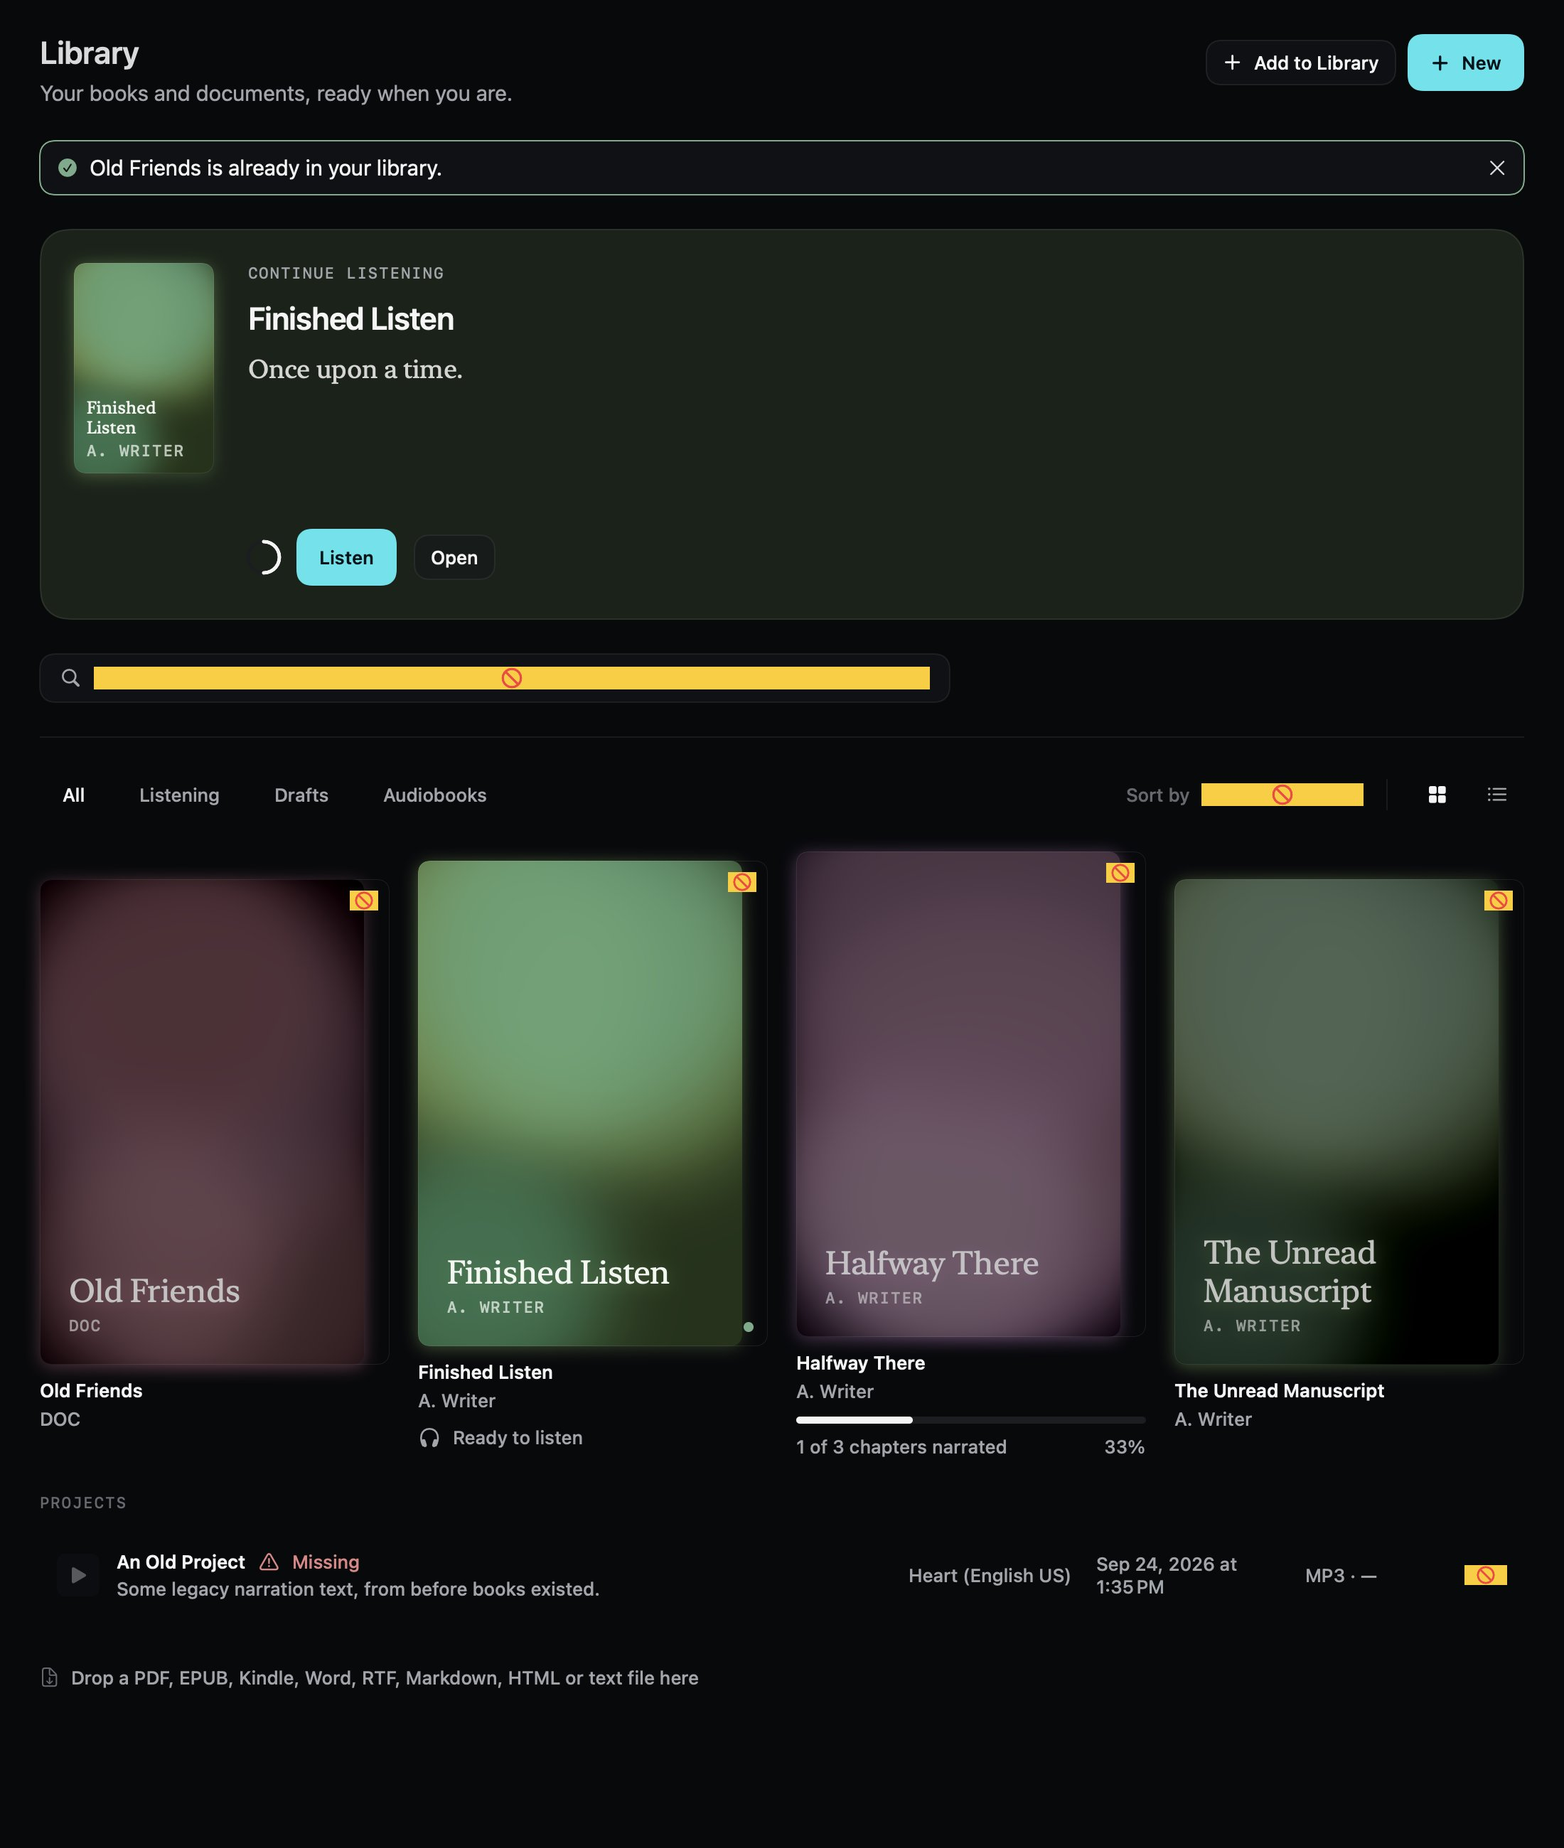
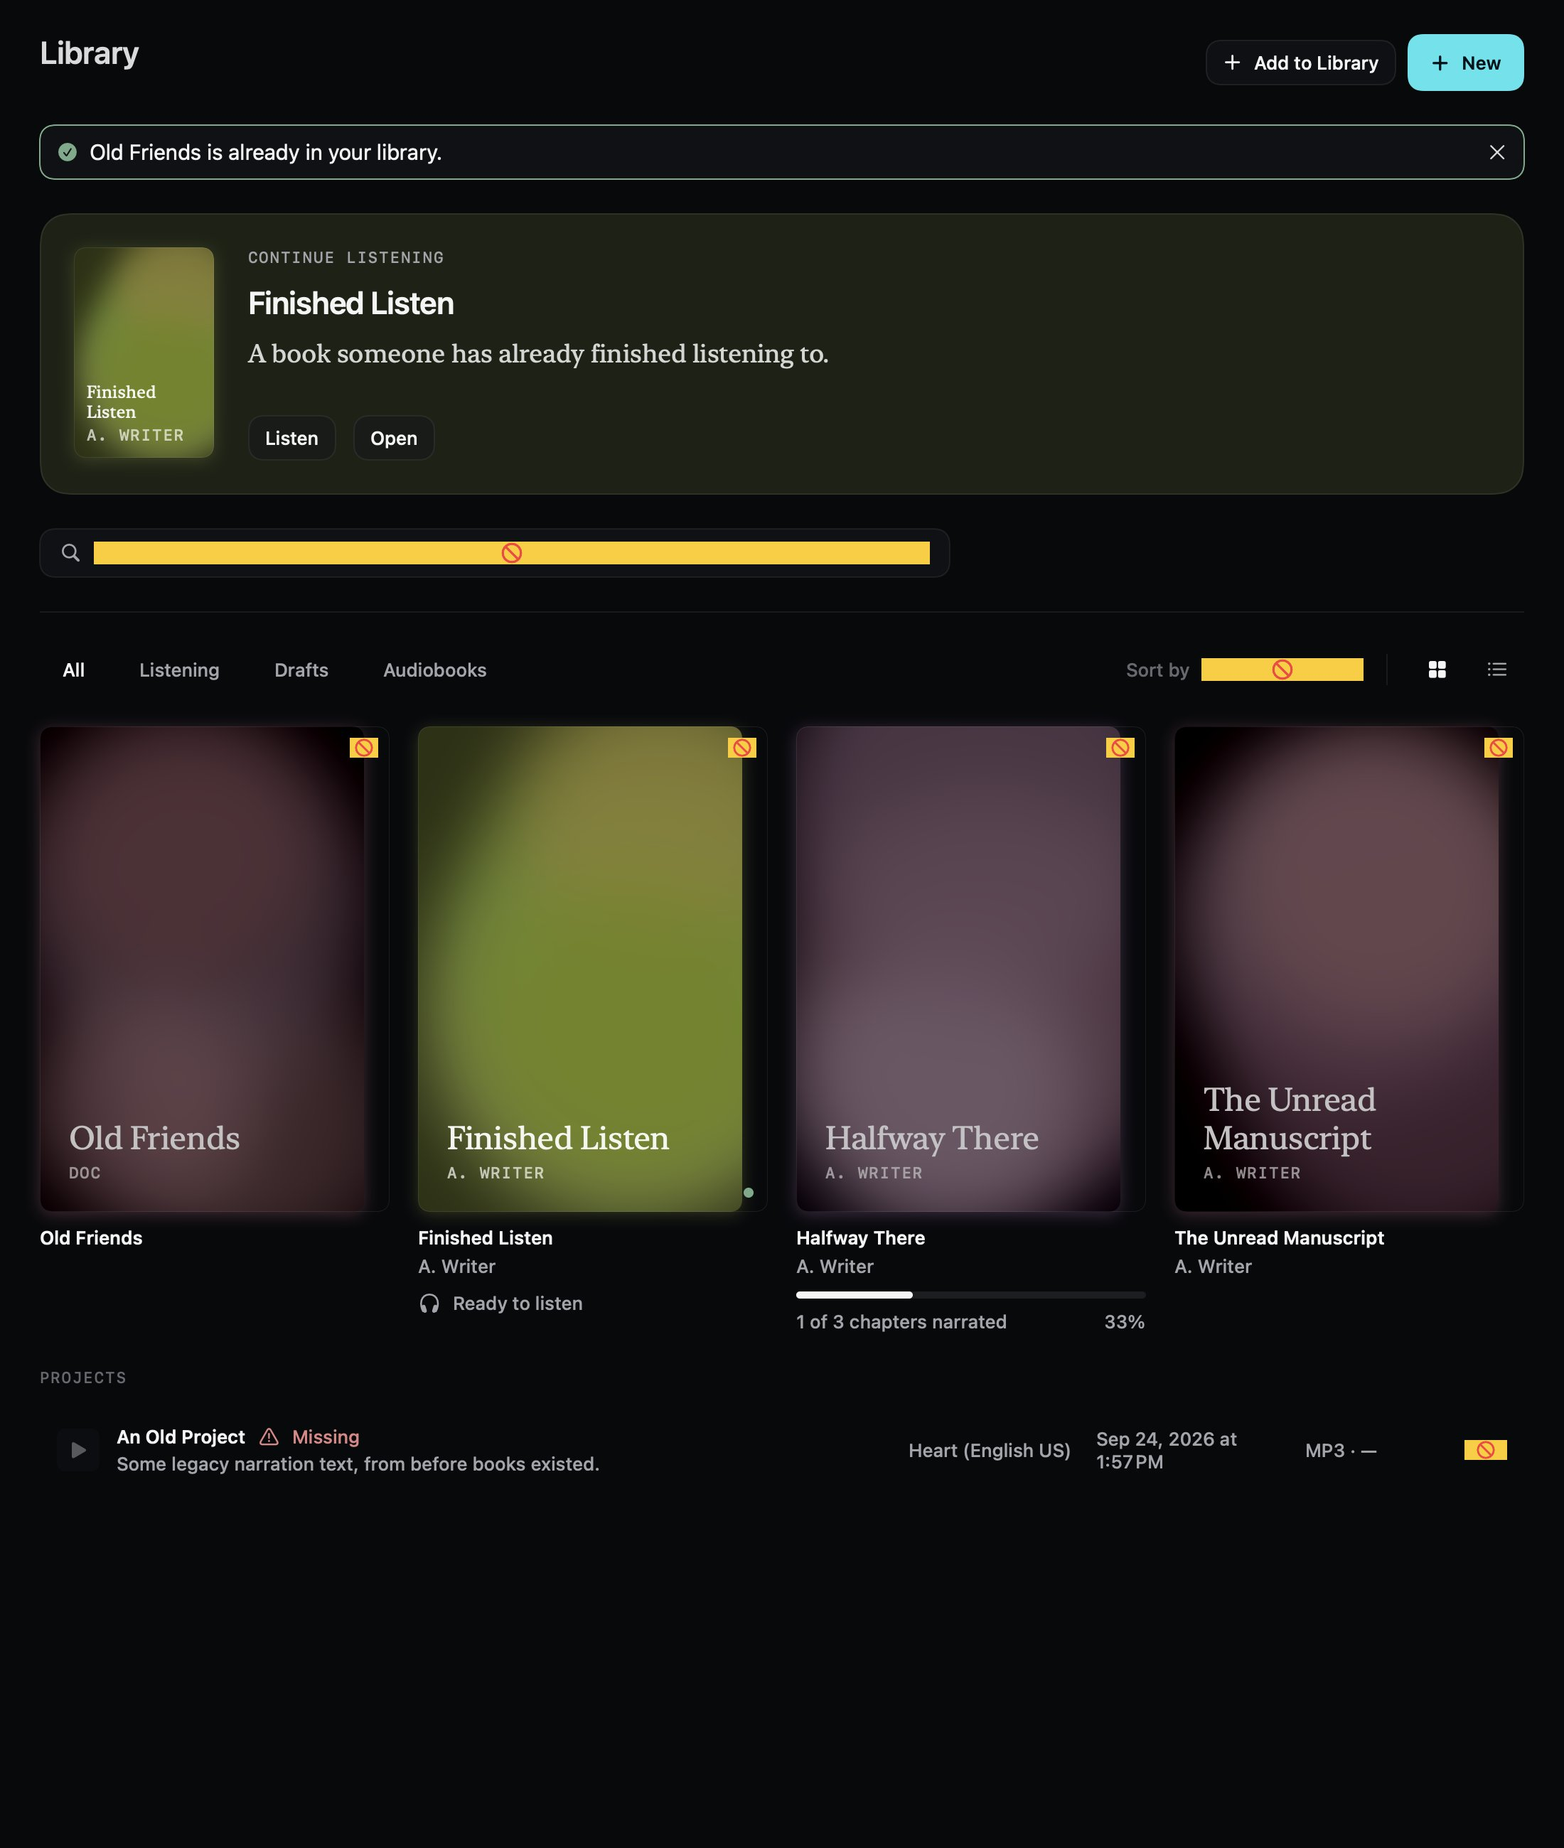
fix(mac): Library visual defects from coordinator render review
A coordinator review of the offscreen QA renders found eight real
defects against docs/design-system.md: two primary buttons on one
screen, help text the empty state already conveys, an unlabeled
progress ring reading as a stuck spinner (plus the empty space its
removal exposed), a cover shadow rendering as a second offset
rectangle in dark appearance, grid covers not top-aligned, a book
showing a different generated-cover hue per appearance, and a card
caption repeating its cover's own baked-in text. Fixes each on the
Library screen itself, plus the render fixture's own state-sharing
and content-hash-collision bugs that caused the hue drift and the
missing "Old Friends"/toast in the first light-mode render.

diff --git a/Sources/Atten/LibraryView.swift b/Sources/Atten/LibraryView.swift
@@ -147,7 +147,14 @@ struct LibraryView: View {
     private var shelfPage: some View {
         GeometryReader { geometry in
             if isOffscreenRender {
+                // A `GeometryReader` always proposes its own full size to its
+                // child, unlike the `ScrollView` below, which proposes an
+                // effectively unbounded height and lets the content size
+                // itself — without `fixedSize`, every `Spacer` in here would
+                // stretch to fill the render canvas instead of collapsing to
+                // its `minLength` the way it does on the real, scrolled page.
                 shelfContent(availableWidth: geometry.size.width)
+                    .fixedSize(horizontal: false, vertical: true)
             } else {
                 ScrollViewReader { proxy in
                     ScrollView {
@@ -213,7 +220,6 @@ struct LibraryView: View {
                     isWide: availableWidth >= 820
                 )
             }
-            importHint
         }
         .padding(.horizontal, 28)
         .padding(.vertical, 24)
@@ -242,11 +248,7 @@ struct LibraryView: View {
     }
 
     private var pageHeader: some View {
-        VStack(alignment: .leading, spacing: 6) {
-            Text("Library").font(AttenTypography.title2)
-            Text("Your books and documents, ready when you are.")
-                .font(AttenTypography.body).foregroundStyle(AttenColor.textSecondary)
-        }
+        Text("Library").font(AttenTypography.title2)
     }
 
     private var addBookButton: some View {
@@ -352,20 +354,6 @@ struct LibraryView: View {
         .accessibilityAddTraits(showsList == list ? .isSelected : [])
     }
 
-    private var importHint: some View {
-        HStack(spacing: AttenSpacing.xs) {
-            Image(systemName: "arrow.down.doc")
-                .foregroundStyle(AttenColor.textMuted)
-            Text("Drop a PDF, EPUB, Kindle, Word, RTF, Markdown, HTML or text file here")
-                .font(AttenTypography.callout)
-                .foregroundStyle(AttenColor.textSecondary)
-            Spacer(minLength: 0)
-        }
-        .padding(.top, 8)
-        .accessibilityElement(children: .combine)
-        .accessibilityLabel("Drop a supported document here to add it to your library")
-    }
-
     private var searchField: some View {
         AttenSearchField(
             prompt: "Search your library…",
@@ -409,7 +397,15 @@ struct LibraryView: View {
             }
         } else {
             LazyVGrid(
-                columns: [GridItem(.adaptive(minimum: availableWidth >= 1100 ? 210 : 170, maximum: 260), spacing: 20)],
+                // Without `alignment: .top`, a `GridItem` centers each cell in
+                // its row — cards with a narration meter or "Ready to listen"
+                // line are taller than one with neither, so the shorter
+                // covers above them would drift down instead of lining up.
+                columns: [GridItem(
+                    .adaptive(minimum: availableWidth >= 1100 ? 210 : 170, maximum: 260),
+                    spacing: 20,
+                    alignment: .top
+                )],
                 alignment: .leading,
                 spacing: 32
             ) {
@@ -585,10 +581,21 @@ private struct BookCard: View {
                             .font(AttenTypography.callout.weight(.semibold))
                             .foregroundStyle(AttenColor.textPrimary)
                             .lineLimit(2)
-                        Text(book.author ?? book.format.displayName)
-                            .font(AttenTypography.callout)
-                            .foregroundStyle(AttenColor.textSecondary)
-                            .lineLimit(1)
+                        // A cover with no art of its own already prints this
+                        // same fallback on its face (`GeneratedCover`'s
+                        // `sourceLabel`) — repeating it here would just be the
+                        // format name twice for a book with no author.
+                        if let author = book.author {
+                            Text(author)
+                                .font(AttenTypography.callout)
+                                .foregroundStyle(AttenColor.textSecondary)
+                                .lineLimit(1)
+                        } else if cover != nil {
+                            Text(book.format.displayName)
+                                .font(AttenTypography.callout)
+                                .foregroundStyle(AttenColor.textSecondary)
+                                .lineLimit(1)
+                        }
                     }
                     .frame(maxWidth: .infinity, alignment: .leading)
                     Group {

diff --git a/tests/AttenCoreTests/LibraryRenderTests.swift b/tests/AttenCoreTests/LibraryRenderTests.swift
@@ -33,6 +33,12 @@ final class LibraryRenderTests: XCTestCase {
         let fixture = try await makeFixture()
         defer { fixture.cleanUp() }
 
+        // Settle the shelf's final state — including the "Old Friends" import
+        // that the toast points at — before any snapshot is taken, so light
+        // and dark render from the identical state rather than one from
+        // before this import and one from after it.
+        await fixture.triggerDuplicateToast()
+
         for dark in [false, true] {
             let suffix = dark ? "dark" : "light"
 
@@ -43,6 +49,11 @@ final class LibraryRenderTests: XCTestCase {
             )
             try write(shelf, to: renderDir.appendingPathComponent("library-shelf-\(suffix).png"))
 
+            // The toast only appears while `duplicateBookID` changes on a
+            // *mounted* view, so each pass re-triggers the same (now
+            // already-imported) duplicate on its own fresh `LibraryView` —
+            // the book list this produces is identical to what's already
+            // there, only the toast's own appearance is new each time.
             let toast = try await renderImage(
                 LibraryView(model: fixture.model),
                 dark: dark,
@@ -128,9 +139,14 @@ final class LibraryRenderTests: XCTestCase {
             generator: ImmediateGenerator()
         )
 
-        let silent = plainBook(title: "The Unread Manuscript")
+        // Distinct text per book, not just distinct titles — `BookshelfModel`
+        // computes a book's content hash from its chapter text the first
+        // time anything checks for a duplicate, so identical placeholder
+        // text across fixture books would make two different books collide
+        // onto the same hash, and so the same generated-cover seed.
+        let silent = plainBook(title: "The Unread Manuscript", text: "A manuscript no one has opened yet.")
 
-        var generating = plainBook(title: "Halfway There")
+        var generating = plainBook(title: "Halfway There", text: "A book partway through being narrated.")
         generating.narrationState = .preparing
         generating.chapters = [
             try await chapter(narrated: true),
@@ -143,7 +159,7 @@ final class LibraryRenderTests: XCTestCase {
         // book-level file it also drops audio whose real duration doesn't
         // match the chapter timeline — so the fixture needs the generator's
         // real (if silent) WAV, and `endTime` needs to match its length.
-        var voiced = plainBook(title: "Finished Listen")
+        var voiced = plainBook(title: "Finished Listen", text: "A book someone has already finished listening to.")
         let audioURL = try await generator.generate(chapter: "book-\(UUID().uuidString)", in: workspace)
         voiced.audioPath = audioURL.path
         voiced.chapters[0].audioPath = audioURL.path
@@ -175,15 +191,15 @@ final class LibraryRenderTests: XCTestCase {
     /// would silently undo the fixture's own narration state.
     private let generator = ImmediateGenerator()
 
-    private func plainBook(title: String) -> BookRecord {
+    private func plainBook(title: String, text: String) -> BookRecord {
         let sourcePath = workspace.appendingPathComponent("\(title).txt").path
-        try? Data("Once upon a time.".utf8).write(to: URL(fileURLWithPath: sourcePath))
+        try? Data(text.utf8).write(to: URL(fileURLWithPath: sourcePath))
         return BookRecord(
             title: title,
             author: "A. Writer",
             format: .document,
             sourcePath: sourcePath,
-            chapters: [BookChapter(title: "One", text: "Once upon a time.")],
+            chapters: [BookChapter(title: "One", text: text)],
             voiceID: "af_heart",
             speed: 1,
             audioFormat: .wav

diff --git a/Sources/Atten/ContinueListeningHero.swift b/Sources/Atten/ContinueListeningHero.swift
@@ -22,11 +22,6 @@ struct ContinueListeningHero: View {
     }
     private var ambientColor: Color { AttenColor.cover(CoverPalette.ambientColor(from: rawTint)) }
 
-    private var progress: Double {
-        guard let total = book.playbackChapters.last?.endTime, total > 0 else { return 0 }
-        return min(1, max(0, book.listeningPosition / total))
-    }
-
     var body: some View {
         HStack(alignment: .top, spacing: AttenSpacing.lg) {
             BookJacket(
@@ -54,14 +49,10 @@ struct ContinueListeningHero: View {
                 Spacer(minLength: AttenSpacing.xs)
 
                 HStack(spacing: AttenSpacing.sm) {
-                    ProgressArc(progress: progress)
-                        .frame(width: 22, height: 22)
                     Button(book.hasBookAudio ? (isPlaying ? "Pause" : "Listen") : "Listen") {
                         model.listen(to: book)
                     }
-                    .buttonStyle(AttenPrimaryButtonStyle(
-                        disabledReason: book.hasBookAudio ? nil : "Prepare this book to listen"
-                    ))
+                    .buttonStyle(AttenSecondaryButtonStyle())
                     .disabled(!book.hasBookAudio)
                     Button("Open") { model.openInLibrary(.book(book.id)) }
                         .buttonStyle(AttenSecondaryButtonStyle())
@@ -107,22 +98,6 @@ struct ContinueListeningHero: View {
             stop = true
         }
         return sentence?.trimmingCharacters(in: .whitespacesAndNewlines) ?? text
-    }
-}
-
-/// A quiet ring of progress — how far into the book listening has gotten.
-private struct ProgressArc: View {
-    let progress: Double
-
-    var body: some View {
-        ZStack {
-            Circle().stroke(AttenColor.progressTrack, lineWidth: 2.5)
-            Circle()
-                .trim(from: 0, to: progress)
-                .stroke(AttenColor.accent, style: StrokeStyle(lineWidth: 2.5, lineCap: .round))
-                .rotationEffect(.degrees(-90))
-        }
-        .accessibilityHidden(true)
     }
 }
 

diff --git a/Sources/Atten/LibraryCoverChrome.swift b/Sources/Atten/LibraryCoverChrome.swift
@@ -49,6 +49,11 @@ private struct AttenCoverFrame: ViewModifier {
                 RoundedRectangle(cornerRadius: AttenRadius.cover, style: .continuous)
                     .strokeBorder(AttenColor.glassHighlight, lineWidth: 0.5)
             }
+            // Without this, the clip and the stroke overlay each cast their
+            // own shadow instead of the one flattened shape casting a single
+            // shadow — visible in dark appearance as a second, rectangular
+            // outline offset to the cover's lower right.
+            .compositingGroup()
             .shadow(color: AttenColor.cover(tint).opacity(0.35), radius: 6, y: 2)
     }
 }

diff --git a/docs/REDESIGN_ACCEPTANCE.md b/docs/REDESIGN_ACCEPTANCE.md
@@ -128,18 +128,63 @@ with SwiftUI's `ImageRenderer`, in both appearances, gated behind
   test, so the real app is unaffected. `library-qa-shelf-{light,dark}.jpg`,
   `library-qa-toast-{light,dark}.jpg` and `library-qa-export-{light,dark}.jpg`
   are the resulting renders.
-- **Reviewed against `docs/design-system.md` and found nothing else to
-  fix:** no clipping, overlap, duplicated information, color on chrome, or
-  glass on the book covers. `TextField`, `Menu` and the segmented `Picker`
-  each render as a plain yellow "unsupported" placeholder — a pre-existing
+- `TextField`, `Menu` and the segmented `Picker` each render as a plain
+  yellow "unsupported" placeholder in every screenshot — a pre-existing
   `ImageRenderer`/AppKit limitation (also seen in P6's read-along work), not
   a Library defect; the search field, sort menu, each card's overflow menu,
   and the export format picker all still work in the real app.
 
+A first pass called this done with no further fixes; a coordinator review of
+the renders found eight real defects against `docs/design-system.md`, since
+fixed on the same branch:
+
+- **Two primary buttons on one screen.** The hero's "Listen" competed with
+  "New" for the app's one signal-filled button; it's `AttenSecondaryButtonStyle`
+  now, like "Open" beside it (`ContinueListeningHero.swift`).
+- **Help text.** The header's "Your books and documents, ready when you are."
+  and the shelf's permanent "Drop a PDF, EPUB…" hint were both instructions a
+  control already conveys (the empty state says the same thing when the
+  shelf actually is empty); both removed (`LibraryView.swift`).
+- **An unlabeled progress ring beside "Listen"** read as a stuck loading
+  spinner rather than listening progress shown nowhere else — removed rather
+  than given a caption that would just duplicate the meter pattern used
+  elsewhere. Its removal also exposed the real cause of a large empty gap
+  under the hero's text: `shelfContent` rendered inside a `GeometryReader`
+  under `isOffscreenRender`, which unlike the real `ScrollView` proposes its
+  full fixed height to its child, so every `Spacer` in the tree — including
+  the hero's — stretched to fill the render canvas. Fixed with `.fixedSize(
+  horizontal: false, vertical: true)` on the offscreen render path only
+  (`LibraryView.swift`).
+- **A cover's shadow rendering as a second, offset rectangle in dark
+  appearance.** `AttenCoverFrame` clipped, stroked, and shadowed a cover
+  without a `.compositingGroup()`, so the clip and the stroke overlay each
+  cast their own shadow instead of one shape casting one
+  (`LibraryCoverChrome.swift`).
+- **Grid covers not lining up.** `LazyVGrid` centers a cell within its row by
+  default; cards with a narration meter or "Ready to listen" line are taller
+  than one with neither, so shorter covers above them drifted down. Fixed
+  with `alignment: .top` on the `GridItem` (`LibraryView.swift`).
+- **The same book showing a different generated-cover hue per appearance.**
+  Root cause was in the fixture, not production code:
+  `BookshelfModel.existingBook(withContentHash:)` lazily computes and caches
+  a book's content hash the first time anything checks for a duplicate, and
+  the render test's fixture gave every book the same placeholder chapter
+  text, so this collided two different books onto the same hash (and so the
+  same cover seed) once that backfill ran. Fixed by giving each fixture book
+  distinct text and settling the shelf's final state — the "Old Friends"
+  duplicate import included — before either appearance is rendered, so light
+  and dark always render from identical state (`LibraryRenderTests.swift`).
+- **A card's caption repeating its cover's own text.** A `BookCard` with no
+  real cover art already prints title and author/format onto the generated
+  cover's own face; for a book with no author, the caption below it repeated
+  the exact same format name a second time. Now that caption is only shown
+  when there's a real author to show, or when there's real cover art with no
+  baked-in label of its own (`LibraryView.swift`).
+
 `swift test` (381 tests, 4 skipped), `uv run python -m unittest discover -s
-tests -p 'test_*.py'` (40 tests) and `swift build -c release` all pass. The live
-on-screen check with the real GUI is still owed once the portrait monitor is
-back.
+tests -p 'test_*.py'` (40 tests) and `swift build -c release` all pass after
+these fixes. The live on-screen check with the real GUI is still owed once
+the portrait monitor is back.
 
 ## Implemented
 
